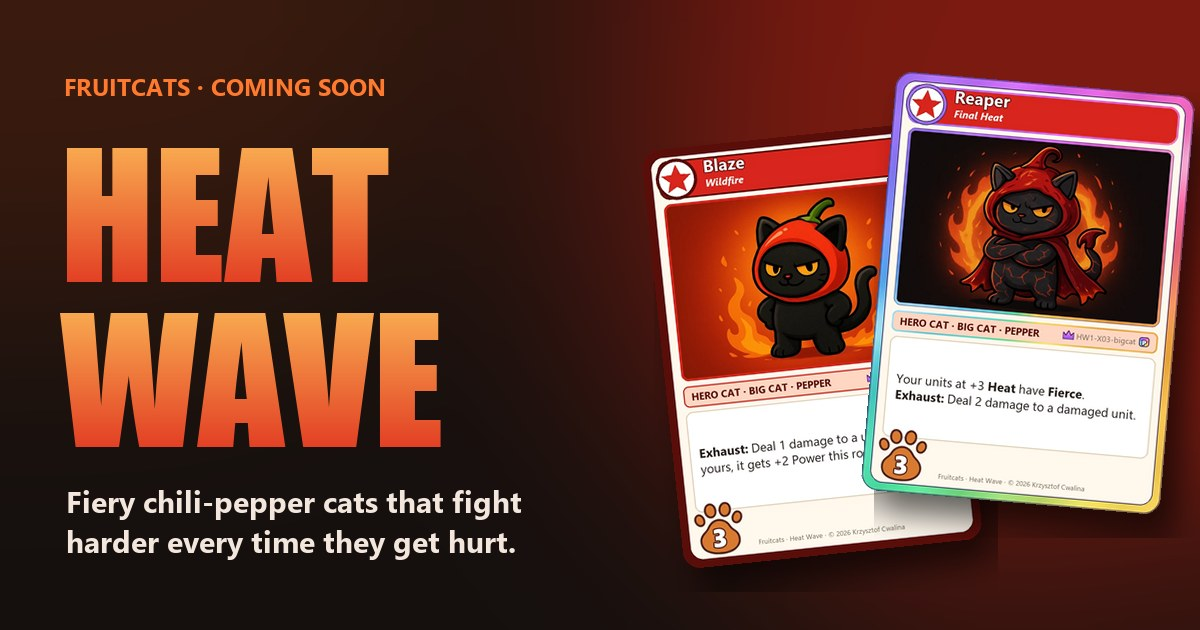
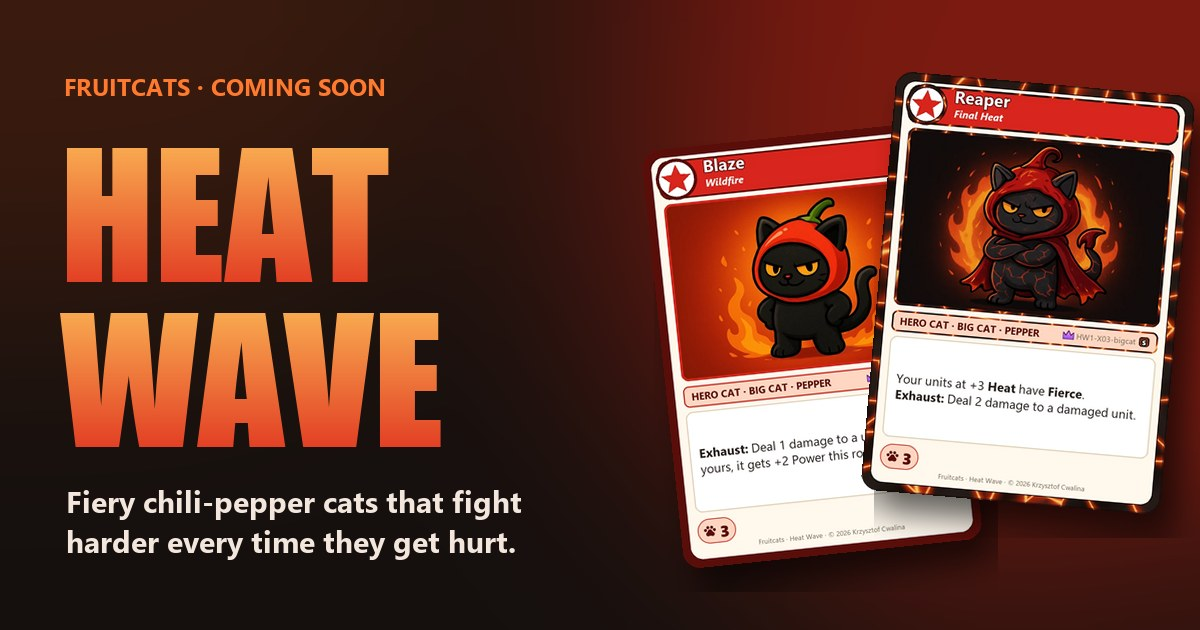
Heat Wave: the Jack-o'-Lantern token, Reaper's Signature print, and US prices on the announcement
- Tokens get art and a card (tools draw data['tokens'] too; a token's card says TOKEN, has no rarity)
- The Signature finish: charred black stone with glowing lava cracks, code S, printed only for cards
  marked "signature" (Reaper)
- The announcement shows Reaper in his Signature print and says its prices are US prices in US dollars

Changed region(s): [[0.7092, 0.0905, 1.0, 0.8143], [0.555, 0.7841, 0.6167, 0.9048]]

diff --git a/art/announcements/heat-wave/index.html b/art/announcements/heat-wave/index.html
@@ -158,6 +158,8 @@
   .tag.tag-foil { background: linear-gradient(100deg, #9FE3FF, #E6C9FF 50%, #FFE3A8); color: #221A30 !important; }
   .tag.tag-gold { background: linear-gradient(180deg, #FFE58A, #D69A1C); color: #3A2600 !important; }
 
+  .price-note { margin-top: 28px; color: var(--smoke); font-size: 14px; }
+
   /* Compare */
   .compare { display: grid; grid-template-columns: repeat(2, minmax(0, 1fr)); gap: 30px; }
   .compare .pair { display: grid; grid-template-columns: 1fr 1fr; gap: 14px; }
@@ -210,13 +212,13 @@
       <div class="facts">
         <span class="fact">New family <b>Pepper</b></span>
         <span class="fact">New keyword <b>Heat</b></span>
-        <span class="fact">Five Alarm deck <b>$9.99</b></span>
-        <span class="fact">Collector cards <b>from $1.49</b></span>
+        <span class="fact">Five Alarm deck <b>$9.99 US</b></span>
+        <span class="fact">Collector cards <b>from $1.49 US</b></span>
       </div>
     </div>
     <div class="hero-cards" aria-label="Blaze and Reaper, the two Pepper Hero Cats">
       <button class="card" data-full="../../cards/hw1/HW1-H01-bigcat.webp"><img src="../../cards/hw1/HW1-H01-bigcat.webp" alt="Blaze, Wildfire (Big Cat)"></button>
-      <button class="card" data-full="../../cards/hw1/prismatic/HW1-X03-bigcat.webp"><img src="../../cards/hw1/prismatic/HW1-X03-bigcat.webp" alt="Reaper, Final Heat (Big Cat)"></button>
+      <button class="card" data-full="../../cards/hw1/signature/HW1-X03-bigcat.webp"><img src="../../cards/hw1/signature/HW1-X03-bigcat.webp" alt="Reaper, Final Heat (Big Cat)"></button>
     </div>
   </header>
 
@@ -252,7 +254,7 @@
 
   <section id="deck">
     <div class="sec-head">
-      <div class="label">The deck · $9.99</div>
+      <div class="label">The deck · $9.99 US</div>
       <h2>Five Alarm</h2>
       <p class="muted">Fifty cards of pure heat, ready to play. Every card is named for a real pepper, and the hotter the pepper, the bigger the card: from a mild Pepperoncini all the way up to Dragon's Breath. Tap any card to see it up close.</p>
     </div>
@@ -293,14 +295,15 @@
       </div>
       <div class="step top">
         <div class="pair">
-          <button class="card" data-full="../../cards/hw1/prismatic/HW1-X03-kitten.webp"><img src="../../cards/hw1/prismatic/HW1-X03-kitten.webp" alt="Reaper, Smolder Kit (Kitten)"></button>
-          <button class="card" data-full="../../cards/hw1/prismatic/HW1-X03-bigcat.webp"><img src="../../cards/hw1/prismatic/HW1-X03-bigcat.webp" alt="Reaper, Final Heat (Big Cat)"></button>
+          <button class="card" data-full="../../cards/hw1/signature/HW1-X03-kitten.webp"><img src="../../cards/hw1/signature/HW1-X03-kitten.webp" alt="Reaper, Smolder Kit (Kitten)"></button>
+          <button class="card" data-full="../../cards/hw1/signature/HW1-X03-bigcat.webp"><img src="../../cards/hw1/signature/HW1-X03-bigcat.webp" alt="Reaper, Final Heat (Big Cat)"></button>
         </div>
         <div class="price">$49.99</div>
         <div class="who"><span class="tag">Signature print</span> Legendary Hero Cat · Pepper</div>
         <p><b>Reaper, the Carolina Sphynx.</b> Named for the hottest pepper on Earth, Reaper leads Five Alarm her own way. She finishes off anything already hurt, and once your cats are fully heated, every hit they land takes two Lives.</p>
       </div>
     </div>
+    <p class="price-note">Prices shown are US prices in US dollars. In other countries, prices are set in your local currency and may differ.</p>
   </section>
 
   <section id="soon">
@@ -316,7 +319,7 @@
     </div>
   </section>
 
-  <footer>Fruitcats · Heat Wave · Coming soon · Art and card details may change before release.</footer>
+  <footer>Fruitcats · Heat Wave · Coming soon · Art, card details and prices may change before release. Prices are for the US store in US dollars; prices in other countries are set locally and may differ.</footer>
 </div>
 
 <dialog id="zoom" aria-label="Card, full size">

diff --git a/tools/compose_cards.py b/tools/compose_cards.py
@@ -210,8 +210,30 @@ CHROME = {
     "foil":      (SILVER, "#4a5362"),
     "gold":      (["#fff4c2", "#e8b73a", "#8a5a0c", "#f7d774", "#b07d17", "#fff0b0", "#c89224", "#fff4c2"], "#5a3a04"),
     "prismatic": (RAINBOW, "#3a2a5a"),
+    "signature": (["#2a1a15", "#120b09"], "#120b09"),
 }
+# Signature: a set's top card is printed only this way (docs/heat-wave-set.md). Charred black stone with
+# glowing lava cracks running through it. Cards opt in with "signature": true; it's never a default print.
+SIGNATURE = "signature"
 _textures: dict = {}
+
+
+def signature_texture(xs, ys):
+    """Charred black stone split by glowing lava cracks: the edges of a Voronoi pattern, hottest (yellow)
+    in the middle of each crack and cooling through orange to deep red at its edges. Fixed seed, so every
+    Signature card is cracked the same way."""
+    import numpy as np
+    rng = np.random.default_rng(7)
+    pts = rng.uniform(0, 1, (170, 2)) * (W, H)
+    d = np.sqrt((xs[..., None] - pts[:, 0]) ** 2 + (ys[..., None] - pts[:, 1]) ** 2)
+    d.sort(axis=-1)
+    edge = d[..., 1] - d[..., 0]                        # 0 on a crack, growing into each stone
+    core = np.exp(-(edge / 3.2) ** 2)[..., None]
+    glow = np.exp(-(edge / 16) ** 2)[..., None]
+    stone = np.array([30, 20, 17], float) + 14 * np.sin(xs / 37 + np.sin(ys / 53) * 2)[..., None] / 2
+    rgb = stone * (1 - glow) + np.array([190, 42, 10], float) * glow
+    rgb = rgb * (1 - core) + np.array([255, 196, 92], float) * core
+    return rgb
 
 
 def chrome_texture(finish: str) -> Image.Image:
@@ -229,7 +251,9 @@ def chrome_texture(finish: str) -> Image.Image:
 
         diagonal = (xs * 0.8 + ys * 0.6) / (W * 0.8 + H * 0.6)
         brushed = (1 + 0.04 * np.sin(ys * 1.9 + np.sin(xs / 23) * 3))[..., None]
-        if finish == "gold":
+        if finish == SIGNATURE:
+            rgb = signature_texture(xs, ys)
+        elif finish == "gold":
             rgb = ramp(CHROME["gold"][0], diagonal * 2) * brushed
         else:
             silver = ramp(SILVER, diagonal * 2.5) * brushed
@@ -247,7 +271,7 @@ def chrome_texture(finish: str) -> Image.Image:
 
 
 # A finish's code in the collector line, like the codes on real cards: F(oil), G(old), P(rismatic).
-FINISH_CODES = {"foil": ("F", "#2e3552"), "gold": ("G", "#4a2c02"), "prismatic": ("P", "white")}
+FINISH_CODES = {"foil": ("F", "#2e3552"), "gold": ("G", "#4a2c02"), "prismatic": ("P", "white"), SIGNATURE: ("S", "white")}
 
 
 def finish_tag(img: Image.Image, right: int, cy: int, finish: str) -> int:
@@ -334,7 +358,7 @@ def compose(card: dict, side: str | None, art_path: Path, finish: str = "standar
     if card["type"] == "Hero Cat":
         star(d, 81, 79, 38, main)
     else:
-        centered(d, (81, 76), str(card["cost"]), font("seguibl.ttf", 60), dark)
+        centered(d, (81, 76), str(card.get("cost", 0)), font("seguibl.ttf", 60), dark)
 
     # Lucky badge
     if re.search(r"\bLucky\b", text):
@@ -342,6 +366,8 @@ def compose(card: dict, side: str | None, art_path: Path, finish: str = "standar
 
     # Type line
     kind = card["type"].upper()
+    if card.get("token"):
+        kind = f"TOKEN {kind}"
     if side:
         kind = f'HERO CAT · {"KITTEN" if side == "kitten" else "BIG CAT"}'
     d.rounded_rectangle((42, 596, W - 42, 648), radius=14, fill=tint, outline=main, width=3)
@@ -353,7 +379,8 @@ def compose(card: dict, side: str | None, art_path: Path, finish: str = "standar
     if finish != "standard":
         right = finish_tag(img, right, 622, finish) - 8
     d.text((right, 622), key, font=key_font, fill=MUTED, anchor="rm")
-    rarity_mark(img, round(right - key_font.getlength(key) - 20), 622, 12, card["rarity"])
+    if card.get("rarity"):                 # tokens aren't collected, so they have no rarity
+        rarity_mark(img, round(right - key_font.getlength(key) - 20), 622, 12, card["rarity"])
     cd.rounded_rectangle((42, 596, W - 42, 648), radius=14, outline=255, width=4)
 
     # The finish's chrome, edged in its ink where it meets the card.
@@ -410,7 +437,7 @@ def main() -> int:
     parser = argparse.ArgumentParser(description=__doc__, formatter_class=argparse.RawDescriptionHelpFormatter)
     parser.add_argument("--set", default="sb1")
     parser.add_argument("--only", nargs="*")
-    parser.add_argument("--finish", choices=("standard", *FINISHES), help="only this finish (default: all)")
+    parser.add_argument("--finish", choices=("standard", *FINISHES, SIGNATURE), help="only this finish (default: all)")
     args = parser.parse_args()
 
     data = json.loads((ROOT / "cards" / f"{args.set}.json").read_text(encoding="utf-8"))
@@ -431,7 +458,7 @@ def main() -> int:
             (out_dir / f).mkdir(exist_ok=True)
 
     written, pending = [], []
-    for card in data["cards"]:
+    for card in data["cards"] + [dict(t, token=True) for t in data.get("tokens", [])]:
         if args.only and card["id"] not in args.only:
             continue
         for side in (("kitten", "bigcat") if card["type"] == "Hero Cat" else (None,)):
@@ -439,7 +466,13 @@ def main() -> int:
             art = art_dir / f"{key}.webp"
             if not art.exists():
                 pending.append(key)
-            for f in finishes:
+            # Tokens are printed plain; a Signature card also gets its Signature print.
+            prints = ["standard"] if card.get("token") else list(finishes)
+            if card.get("signature") and not args.finish:
+                prints.append(SIGNATURE)
+            for f in prints:
+                if f != "standard":
+                    (out_dir / f).mkdir(exist_ok=True)
                 compose(card, side, art, f).save(out_dir / (f"{key}.webp" if f == "standard" else f"{f}/{key}.webp"),
                                                  quality=90, method=6)
             written.append(key)

diff --git a/tools/generate_art.py b/tools/generate_art.py
@@ -96,7 +96,8 @@ def main() -> int:
     parser.add_argument("--ui", action="store_true", help="draw the interface art (backgrounds, card back) into art/ui/")
     args = parser.parse_args()
 
-    cards = json.loads((ROOT / "cards" / f"{args.set}.json").read_text(encoding="utf-8"))["cards"]
+    data = json.loads((ROOT / "cards" / f"{args.set}.json").read_text(encoding="utf-8"))
+    cards = data["cards"] + data.get("tokens", [])    # tokens (units that cards summon) need art too
     # A set may bring its own art direction (art/prompts.<set>.json); the Starter Box uses art/prompts.json.
     set_prompts = ROOT / "art" / f"prompts.{args.set}.json"
     prompts = json.loads((set_prompts if set_prompts.exists() else ROOT / "art" / "prompts.json").read_text(encoding="utf-8"))

diff --git a/docs/heat-wave-set.md b/docs/heat-wave-set.md
@@ -224,5 +224,7 @@ Following [card-data-architecture.md](card-data-architecture.md), the only engin
 - the **`unitsInComposts`** and **`unitHasCounter`** conditions (the two Grow Ups)
 
 Everything else is data: the Pepper family, the Heat mechanic, 19 cards, one token and one deck. Art: 22
-illustrations (four Hero Cat faces, 15 Pepper cards, Jack, Nova and the Jack-o'-Lantern token), plus the
-finishes that `compose_cards.py` already makes.
+illustrations (four Hero Cat faces, 15 Pepper cards, Jack, Nova and the Jack-o'-Lantern token), all drawn,
+plus every finish. Reaper also has the Signature print (`compose_cards.py` makes it for cards with
+`"signature": true`: charred black stone with glowing lava cracks, code **S**). The app's shimmer for Signature
+copies (finish.css, collection.ts) comes with the Store work.
